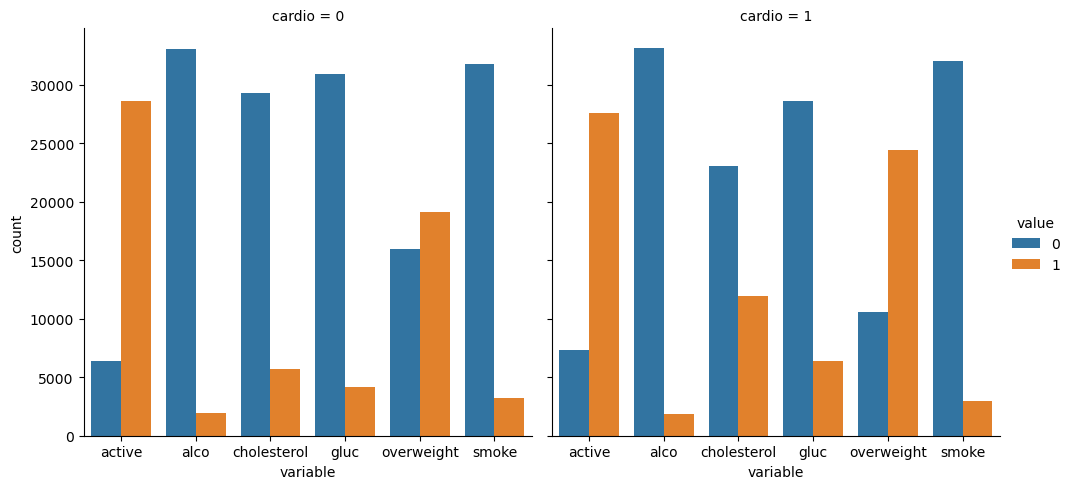
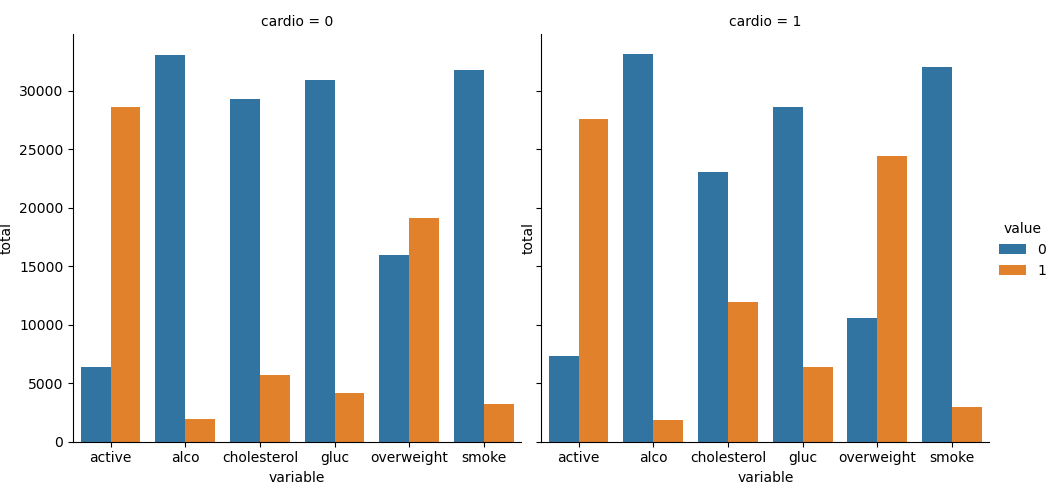
Completed Medical Data Visualiser

diff --git a/medical_data_visualizer.py b/medical_data_visualizer.py
@@ -22,25 +22,29 @@ def draw_cat_plot():
 
     # Group and reformat the data to split it by 'cardio'. Show the counts of each feature. You will have to rename one of the collumns for the catplot to work correctly.
 
-    fig = sns.catplot(data=df_cat, kind="count", x="variable", hue="value", col="cardio")
+    fig = sns.catplot(data=df_cat, kind="count", x="variable", hue="value", col="cardio").set(ylabel = "total").fig
 
     # Do not modify the next two lines
     fig.savefig('catplot.png')
     return fig
-
+draw_cat_plot()
 # Draw Heat Map
 def draw_heat_map():
     # Clean the data
-    df_heat = df[(df['height'] >= df['height'].quantile(0.025)) & (df['height'] <= df['height'].quantile(0.975)) ]
-    df_heat = df_heat[(df_heat["weight"] >= df_heat['weight'].quantile(0.025)) & (df_heat["weight"] <= df_heat['weight'].quantile(0.975))]
-    df_heat = df_heat[df_heat['ap_lo'] <= df_heat['ap_hi']]
+    df_heat = df[(df['ap_lo'] <= df['ap_hi'])
+            & (df['height'] >= df['height'].quantile(0.025))
+            & (df['height'] <= df['height'].quantile(0.975))
+            & (df['weight'] >= df['weight'].quantile(0.025))
+            & (df['weight'] <= df['weight'].quantile(0.975))
+    ]
+
     
 
     # Calculate the correlation matrix
-    corr = np.round(df_heat.corr(),1)
+    corr = df_heat.corr()
     
     # Generate a mask for the upper triangle
-    mask = np.triu(np.ones_like(corr, dtype=np.bool))
+    mask = np.triu(corr)
 
 
 
@@ -48,10 +52,8 @@ def draw_heat_map():
     fig, ax = plt.subplots(figsize=(9,9))
 
     # Draw the heatmap with 'sns.heatmap()'
-    sns.heatmap(corr,mask=mask,square=True, annot=True)
+    sns.heatmap(corr,mask=mask,fmt=".1f",square=True, annot=True)
 
     # Do not modify the next two lines
     fig.savefig('heatmap.png')
     return fig
-draw_heat_map()
-
